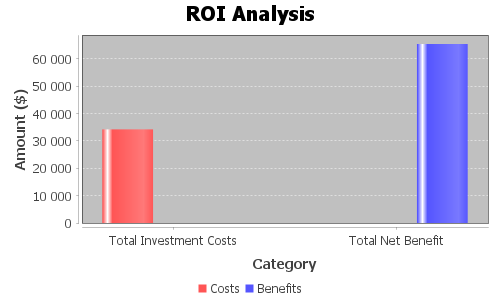
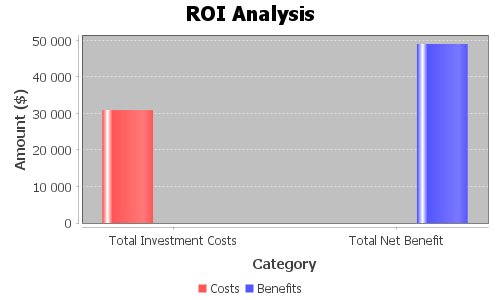
Developed Smart Diagnostics System  Use Case for Healthcare

diff --git a/src/main/resources/templates/healthcare/healthcare-list.html b/src/main/resources/templates/healthcare/healthcare-list.html
@@ -65,13 +65,12 @@
                </a>
             </div>
             <div class="col-md-4">
-              <!-- <a href="smart-diagnostics.html" class="industry-link"></a> -->
+                <a th:href="@{/healthcare/smart-diagnostics-system-form}" class="industry-link">
                 <div class="use-case-card">
                     <div class="use-case-icon">🩺</div>
                     <h3>Smart Diagnostics</h3>
-                    <!-- <a href="smart-diagnostics.html" class="btn btn-primary mt-3">Calculate</a> -->
                 </div>
-              <!-- </a> -->
+               </a>
             </div>
             <div class="col-md-4">
               <!-- <a href="telemedicine.html" class="industry-link"></a> -->

diff --git a/src/main/java/com/example/RemotePatientMonitoringSystem02/controller/healthcare/SmartDiagnosticsSystemController.java b/src/main/java/com/example/RemotePatientMonitoringSystem02/controller/healthcare/SmartDiagnosticsSystemController.java
@@ -1,0 +1,146 @@
+package com.example.RemotePatientMonitoringSystem02.controller.healthcare;
+
+import com.example.RemotePatientMonitoringSystem02.entity.healthcare.SmartDiagnosticsSystemDevices;
+import com.example.RemotePatientMonitoringSystem02.entity.healthcare.SmartHospitalDevices;
+import com.example.RemotePatientMonitoringSystem02.service.healthcare.SmartDiagnosticsSystemService;
+import org.jfree.chart.ChartFactory;
+import org.jfree.chart.ChartUtils;
+import org.jfree.chart.JFreeChart;
+import org.jfree.data.category.CategoryDataset;
+import org.jfree.data.category.DefaultCategoryDataset;
+import org.slf4j.Logger;
+import org.slf4j.LoggerFactory;
+import org.springframework.core.io.FileSystemResource;
+import org.springframework.http.HttpHeaders;
+import org.springframework.http.HttpStatus;
+import org.springframework.http.ResponseEntity;
+import org.springframework.stereotype.Controller;
+import org.springframework.ui.Model;
+import org.springframework.web.bind.annotation.GetMapping;
+import org.springframework.web.bind.annotation.PostMapping;
+import org.springframework.web.bind.annotation.RequestParam;
+
+import java.io.File;
+import java.io.IOException;
+import java.math.BigDecimal;
+import java.util.ArrayList;
+import java.util.Arrays;
+import java.util.List;
+
+@Controller
+public class SmartDiagnosticsSystemController {
+
+    private final SmartDiagnosticsSystemService smartDiagnosticsSystemService;
+
+    public SmartDiagnosticsSystemController(SmartDiagnosticsSystemService smartDiagnosticsSystemService) {
+        this.smartDiagnosticsSystemService = smartDiagnosticsSystemService;
+    }
+
+    @GetMapping("/healthcare/smart-diagnostics-system-form")
+    public String showForm(Model model) {
+        List<SmartDiagnosticsSystemDevices> devices = smartDiagnosticsSystemService.getAllDevices();
+        model.addAttribute("devices", devices);
+        model.addAttribute("dynamicUrl", "/smart-diagnostics-system/calculate-roi");
+        model.addAttribute("pageFormTitle", "Smart Diagnostics Ssystem ROI Calculation");
+        return "healthcare/remote-patient-monitoring-form";
+    }
+
+    @PostMapping("/smart-diagnostics-system/calculate-roi")
+    public String calculateROI(@RequestParam("quantities") String[] quantities,
+                               @RequestParam("investmentPeriod") int investmentPeriod,
+                               Model model) {
+
+        Logger logger = LoggerFactory.getLogger(SmartHospitalController.class);
+
+        List<SmartDiagnosticsSystemDevices> devices = smartDiagnosticsSystemService.getAllDevices();
+        List<Integer> finalQuantities = new ArrayList<>();
+
+        logger.info("Received quantities: {}", Arrays.toString(quantities));
+        logger.info("Received investmentPeriod: {}", investmentPeriod);
+
+        // Process each input quantity, using default quantity if input is blank or invalid
+        for (int i = 0; i < devices.size(); i++) {
+            String quantityStr = (i < quantities.length) ? quantities[i] : "";
+            int quantity;
+            try {
+                quantity = (quantityStr == null || quantityStr.isEmpty()) ? devices.get(i).getDefaultQuantity() : Integer.parseInt(quantityStr);
+            } catch (NumberFormatException e) {
+                logger.error("Invalid quantity format for device {}: {}", quantityStr, e);
+                quantity = devices.get(i).getDefaultQuantity();
+            }
+            finalQuantities.add(quantity);
+        }
+
+        // Perform ROI calculation
+        BigDecimal totalInvestmentCosts = smartDiagnosticsSystemService.calculateTotalInvestment(devices, finalQuantities, investmentPeriod);
+        BigDecimal totalNetBenefit = smartDiagnosticsSystemService.calculateTotalNetBenefit(devices, finalQuantities, investmentPeriod);
+        BigDecimal roi = smartDiagnosticsSystemService.calculateROI(totalInvestmentCosts, totalNetBenefit);
+
+        // Add calculated values to the model for display on the results page
+        model.addAttribute("totalInvestmentCosts", totalInvestmentCosts);
+        model.addAttribute("totalNetBenefit", totalNetBenefit);
+        model.addAttribute("investmentPeriod", investmentPeriod);
+        model.addAttribute("roi", roi);
+
+        // Add cache-busting version (timestamp)
+        model.addAttribute("imageVersion", System.currentTimeMillis());
+        model.addAttribute("pageResultTitle", "Smart Diagnostics System ROI Calculation Results");
+
+        String chartPath = "/smart-hospital/chart?imageName=smart_diagnostics_system_chart.png";
+        model.addAttribute("chartPath", chartPath);
+
+        //link to back to form
+        String backToFormPath= "/healthcare/smart-diagnostics-system-form";
+        model.addAttribute("backToFormPath", backToFormPath);
+//        model.addAttribute("chartPath", "/smart-hospital/chart(imageName='smart_hospital_chart.png')");
+        // Generate the bar chart
+        generateBarChart(totalInvestmentCosts, totalNetBenefit);
+
+        // Return the view name
+        return "healthcare/remote-patient-monitoring-ROI";
+    }
+
+
+    // New method to serve the image
+    @GetMapping("/smart-diagnostics-system/chart")
+    public ResponseEntity<FileSystemResource> getChart(@RequestParam("imageName") String imageName) {
+        File imageFile = new File("src/main/resources/static/images/" + imageName);
+
+        // Add headers to prevent caching
+        HttpHeaders headers = new HttpHeaders();
+        headers.setCacheControl("no-store, no-cache, must-revalidate, proxy-revalidate");
+        headers.setPragma("no-cache");
+        headers.setExpires(0L);
+
+        FileSystemResource resource = new FileSystemResource(imageFile);
+
+        return new ResponseEntity<>(resource, headers, HttpStatus.OK);
+    }
+
+    // Method to generate the bar chart
+    private void generateBarChart(BigDecimal totalInvestmentCosts, BigDecimal totalNetBenefit) {
+        CategoryDataset dataset = createDataset(totalInvestmentCosts,totalNetBenefit);
+
+        JFreeChart barChart = ChartFactory.createBarChart(
+                "ROI Analysis",
+                "Category",
+                "Amount ($)",
+                dataset
+        );
+
+        try {
+            // Save the chart as an image file
+            ChartUtils.saveChartAsPNG(new File("src/main/resources/static/images/smart_diagnostics_system_chart.png"), barChart, 500, 300);
+        } catch (IOException e) {
+            e.printStackTrace(); // Handle exceptions appropriately in production
+        }
+    }
+
+    // Method to create the dataset for the bar chart_two valueas
+    private CategoryDataset createDataset(BigDecimal totalInvestmentCosts, BigDecimal totalNetBenefiti) {
+        DefaultCategoryDataset dataset = new DefaultCategoryDataset();
+        dataset.addValue(totalInvestmentCosts, "Costs", "Total Investment Costs");
+        dataset.addValue(totalNetBenefiti, "Benefits", "Total Net Benefit");
+        return dataset;
+    }
+}

diff --git a/src/main/java/com/example/RemotePatientMonitoringSystem02/service/healthcare/SmartDiagnosticsSystemService.java b/src/main/java/com/example/RemotePatientMonitoringSystem02/service/healthcare/SmartDiagnosticsSystemService.java
@@ -1,0 +1,66 @@
+package com.example.RemotePatientMonitoringSystem02.service.healthcare;
+
+import com.example.RemotePatientMonitoringSystem02.entity.healthcare.RemotePatientMonitoringDevices;
+import com.example.RemotePatientMonitoringSystem02.entity.healthcare.SmartDiagnosticsSystemDevices;
+import com.example.RemotePatientMonitoringSystem02.entity.healthcare.SmartHospitalDevices;
+import com.example.RemotePatientMonitoringSystem02.repository.healthcare.SmartDiagnosticsSystemRepository;
+import org.springframework.stereotype.Service;
+
+import java.math.BigDecimal;
+import java.math.RoundingMode;
+import java.util.List;
+
+@Service
+public class SmartDiagnosticsSystemService {
+
+    private final SmartDiagnosticsSystemRepository smartDiagnosticsSystemRepository;
+
+    public SmartDiagnosticsSystemService(SmartDiagnosticsSystemRepository smartDiagnosticsSystemRepository) {
+        this.smartDiagnosticsSystemRepository = smartDiagnosticsSystemRepository;
+    }
+
+    public List<SmartDiagnosticsSystemDevices> getAllDevices() {
+        return smartDiagnosticsSystemRepository.findAll();
+    }
+
+    public BigDecimal calculateTotalInvestment(List<SmartDiagnosticsSystemDevices> devices, List<Integer> quantities, int investmentPeriod) {
+        BigDecimal totalInvestment = BigDecimal.ZERO;
+        for (int i = 0; i < devices.size(); i++) {
+            SmartDiagnosticsSystemDevices device = devices.get(i);
+            int quantity = quantities.get(i) != null ? quantities.get(i) : device.getDefaultQuantity();
+
+            // Initial investment per device type
+            BigDecimal initialInvestment = BigDecimal.valueOf(quantity).multiply(device.getInitialCostPerUnit());
+
+            // Maintenance cost over the investment period
+            BigDecimal maintenanceCost = BigDecimal.valueOf(quantity).multiply(device.getAnnualMaintenanceCostPerUnit()).multiply(BigDecimal.valueOf(investmentPeriod));
+
+            totalInvestment = totalInvestment.add(initialInvestment).add(maintenanceCost);
+        }
+        return totalInvestment;
+    }
+
+    public BigDecimal calculateTotalNetBenefit(List<SmartDiagnosticsSystemDevices> devices, List<Integer> quantities, int investmentPeriod) {
+        BigDecimal totalBenefit = BigDecimal.ZERO;
+        for (int i = 0; i < devices.size(); i++) {
+            SmartDiagnosticsSystemDevices device = devices.get(i);
+            int quantity = quantities.get(i) != null ? quantities.get(i) : device.getDefaultQuantity();
+
+            // Annual benefit from sales, efficiency, and customer engagement
+            BigDecimal annualBenefit = BigDecimal.valueOf(quantity).multiply(
+                    device.getIncreasedSalesBenefitPerUnit()
+                            .add(device.getCostSavingsFromEfficiencyPerUnit())
+                            .add(device.getIncreasedCustomerEngagementBenefitPerUnit())
+            );
+
+            totalBenefit = totalBenefit.add(annualBenefit.multiply(BigDecimal.valueOf(investmentPeriod)));
+        }
+        return totalBenefit;
+    }
+
+    public BigDecimal calculateROI(BigDecimal totalInvestmentCosts, BigDecimal totalNetBenefit) {
+        return totalNetBenefit.subtract(totalInvestmentCosts)
+                .divide(totalInvestmentCosts, RoundingMode.HALF_UP)
+                .multiply(BigDecimal.valueOf(100));
+    }
+}

diff --git a/src/main/java/com/example/RemotePatientMonitoringSystem02/entity/healthcare/SmartDiagnosticsSystemDevices.java b/src/main/java/com/example/RemotePatientMonitoringSystem02/entity/healthcare/SmartDiagnosticsSystemDevices.java
@@ -1,0 +1,35 @@
+package com.example.RemotePatientMonitoringSystem02.entity.healthcare;
+
+import jakarta.persistence.Entity;
+import jakarta.persistence.GeneratedValue;
+import jakarta.persistence.GenerationType;
+import jakarta.persistence.Id;
+import jakarta.validation.constraints.PositiveOrZero;
+import lombok.AllArgsConstructor;
+import lombok.Data;
+import lombok.NoArgsConstructor;
+import org.springframework.stereotype.Component;
+
+import java.math.BigDecimal;
+
+@Data
+@AllArgsConstructor
+@NoArgsConstructor
+@Entity
+public class SmartDiagnosticsSystemDevices {
+
+    @Id
+    @GeneratedValue(strategy = GenerationType.IDENTITY)
+    private Long id;
+
+    private String deviceType;
+
+    @PositiveOrZero(message = "Quantity must be a non-negative integer. Please enter a valid quantity.")
+    private int defaultQuantity;
+    private BigDecimal initialCostPerUnit;
+    private BigDecimal annualMaintenanceCostPerUnit;
+    private BigDecimal increasedSalesBenefitPerUnit;
+    private BigDecimal costSavingsFromEfficiencyPerUnit;
+    private BigDecimal increasedCustomerEngagementBenefitPerUnit;
+    private String deviceDescription;
+}

diff --git a/src/main/java/com/example/RemotePatientMonitoringSystem02/repository/healthcare/SmartDiagnosticsSystemRepository.java b/src/main/java/com/example/RemotePatientMonitoringSystem02/repository/healthcare/SmartDiagnosticsSystemRepository.java
@@ -1,0 +1,9 @@
+package com.example.RemotePatientMonitoringSystem02.repository.healthcare;
+
+import com.example.RemotePatientMonitoringSystem02.entity.healthcare.SmartDiagnosticsSystemDevices;
+import org.springframework.data.jpa.repository.JpaRepository;
+import org.springframework.stereotype.Repository;
+
+@Repository
+public interface SmartDiagnosticsSystemRepository extends JpaRepository<SmartDiagnosticsSystemDevices, Long> {
+}
